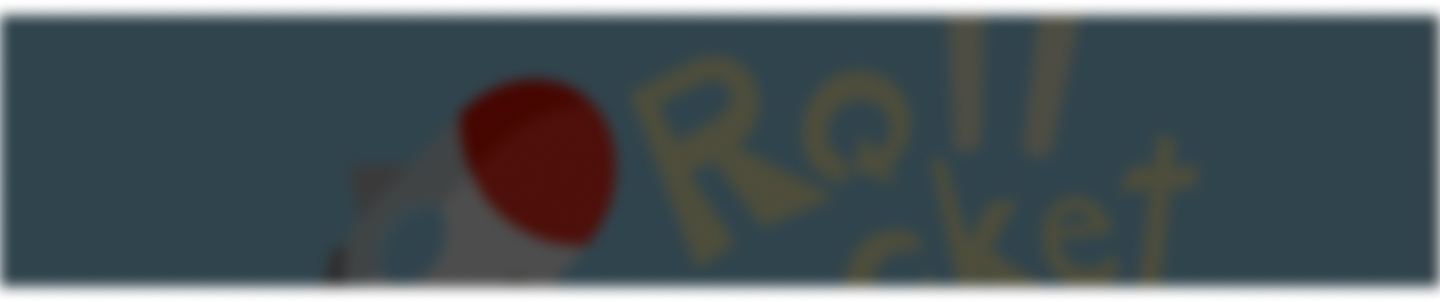
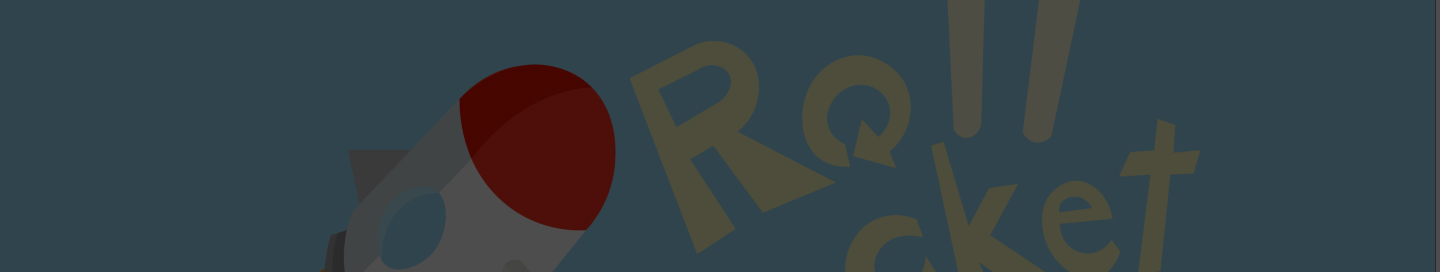
背景写真追加

diff --git a/src/components/organisms/Work.tsx b/src/components/organisms/Work.tsx
@@ -7,6 +7,7 @@ import { TitleJa } from '@/components/atoms/text/TitleJa'
 import { Text } from '@/components/atoms/text/Text'
 import { Creator } from '@/components/atoms/text/Creator'
 import { LinkButton } from '@/components/atoms/button/LinkButton'
+import { BackgroundImg } from '@/components/atoms/images/BackgroundImg'
 import { WorkContent } from '@/type/workType'
 import { RevealFromTop, RevealFromLeft, RevealWrap } from '@/styles/textReveal'
 import { url } from '@/utils/config'
@@ -49,6 +50,7 @@ export const Work = ({
       <_ContentWrap>
         <_ImageWrap>
           <_Image src={url(thumnail)} alt={title} />
+          {inView && <BackgroundImg focusId={id} />}
         </_ImageWrap>
         <_DetailWrap>
           <Creator
@@ -103,6 +105,7 @@ const _ContentWrap = styled.div`
 `
 
 const _ImageWrap = styled.figure`
+  position: relative;
   width: 686px;
   height: 456px;
   background-color: #c4c4c4;

diff --git a/src/components/atoms/images/BackgroundImg.tsx b/src/components/atoms/images/BackgroundImg.tsx
@@ -1,0 +1,30 @@
+import styled from 'styled-components'
+import { fadeIn } from '@/styles/fadeAnimation'
+import { url } from '@/utils/config'
+import data from '@/data/backgroundImg.json'
+
+type Props = {
+  focusId: number
+}
+
+export const BackgroundImg = ({ focusId }: Props) => {
+  const imgList: string[] = data.images
+
+  return <_BackgroundImgWrap img={url(imgList[focusId - 1])} />
+}
+
+const _BackgroundImgWrap = styled.div<{ img: string }>`
+  position: fixed;
+  z-index: -10;
+  top: 22%;
+  left: 0;
+  width: 100%;
+  height: 272px;
+  background-image: ${(props) => `url(${props.img})`};
+  filter: blur(7.5px);
+  animation: 1s ${fadeIn} forwards;
+
+  ${({ theme }) => theme.media.phone`
+    display: none;
+  `}
+`

diff --git a/src/components/templates/indexLayout.tsx b/src/components/templates/indexLayout.tsx
@@ -20,8 +20,8 @@ export const IndexLayout = ({ worksData }: WorksDataProps) => {
   return (
     <_Container height={useHeight}>
       <_Section ref={ref} height={useHeight}>
-        <StepBar focusId={focusId} inView={!inView} />
         <HeroArea />
+        <StepBar focusId={focusId} inView={!inView} />
       </_Section>
       {worksData.map((item, index) => (
         <_Section key={index} height={useHeight}>

diff --git a/src/components/molecules/StepBar.tsx b/src/components/molecules/StepBar.tsx
@@ -29,6 +29,7 @@ const Rect = styled.div`
 
 const _Wrap = styled.div`
   position: fixed;
+  z-index: 1;
   top: 20%;
   right: 4%;
   transform: translateY(-20%);

diff --git a/src/styles/fadeAnimation.ts b/src/styles/fadeAnimation.ts
@@ -1,0 +1,10 @@
+import { keyframes } from 'styled-components'
+
+export const fadeIn = keyframes`
+  0% {
+    opacity: 0;
+  }
+  100% {
+    opacity: 1;
+  }
+`
